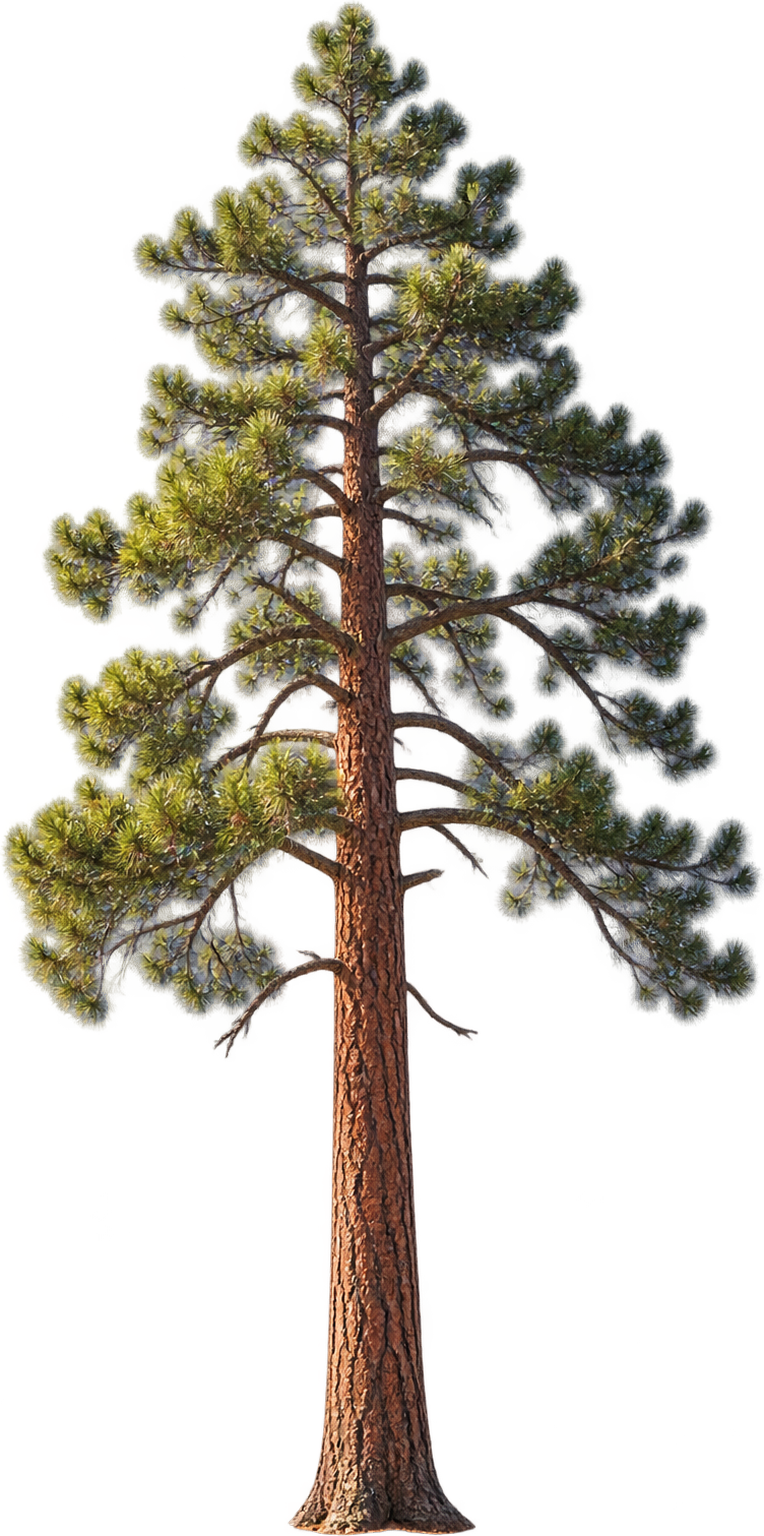
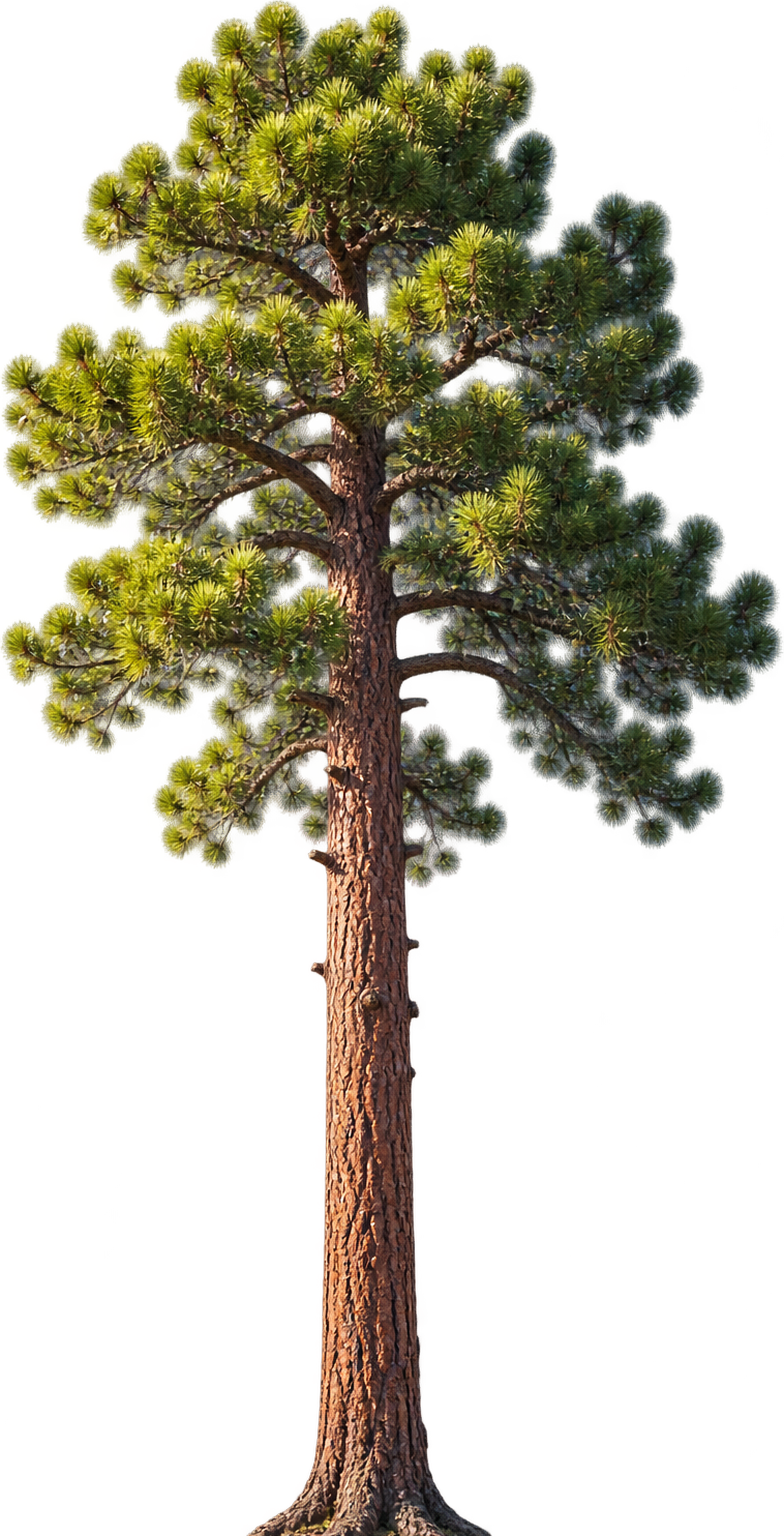
wallpaper-style granite and pines, drop fully submerged boulders
new generated granite texture (smooth grey with soft weathering) and two
jeffrey pine cutouts, milder rock grading, greener tree tint, and no
boulders that sit entirely underwater.

diff --git a/src/trees.js b/src/trees.js
@@ -9,7 +9,7 @@ export function buildTrees(scene, spots, maps, sunE) {
     const map = maps[s.k];
     const aspect = map.image ? map.image.width / map.image.height : 0.5;
     const mat = new THREE.ShaderMaterial({
-      uniforms: { uMap: { value: map }, uGain: { value: lum * 0.25 } },
+      uniforms: { uMap: { value: map }, uGain: { value: lum * 0.42 } },
       transparent: false, alphaToCoverage: true, side: THREE.DoubleSide,
       vertexShader: `varying vec2 vUv; void main(){ vUv = uv; gl_Position = projectionMatrix*modelViewMatrix*vec4(position, 1.0); }`,
       fragmentShader: `uniform sampler2D uMap; uniform float uGain; varying vec2 vUv;
@@ -20,7 +20,10 @@ export function buildTrees(scene, spots, maps, sunE) {
           vec3 c = pow(t.rgb, vec3(2.2))*uGain;
           // tame the photo's saturated orange trunk toward weathered cinnamon grey
           float l = dot(c, vec3(0.2126, 0.7152, 0.0722));
-          c = mix(vec3(l), c, 0.8);
+          c = mix(vec3(l), c, 0.7);
+          // needles toward the wallpaper's fresh green, the trunk stays bark
+          float needle = smoothstep(0.02, 0.1, t.g - t.r*0.8);
+          c *= mix(vec3(1.0), vec3(0.9, 0.96, 0.9), needle);
           c *= mix(vec3(0.9, 0.95, 1.08), vec3(1.0), smoothstep(0.05, 0.35, dot(t.rgb, vec3(0.333))));
           gl_FragColor = vec4(c, smoothstep(0.08, 0.6, t.a));
         }`,

diff --git a/src/main.js b/src/main.js
@@ -57,7 +57,7 @@ const tex = (url, srgb) => {
 const shared = { uSunDir: { value: sunDir }, uSunE: { value: sunE } };
 const U = makeUniforms({
   ...shared, ...swell, ...ocean.uniforms(), ...terr.uniforms,
-  uGranite: { value: tex('tex/granite.jpg', true) },
+  uGranite: { value: tex('tex/granite.jpg?v=3', true) },
   uEnv: { value: env },
   uSand: { value: tex('tex/sand.jpg', true) },
   uSandN: { value: tex('tex/sand_n.png', false) },
@@ -91,7 +91,7 @@ scene.add(new THREE.HemisphereLight(0x8fb6ff, 0x9a9080, Math.PI * 0.06 * sunLum)
 const sunLight = new THREE.DirectionalLight(0xfff4e8, sunLum);
 sunLight.position.copy(sunDir).multiplyScalar(100);
 scene.add(sunLight);
-const trees = buildTrees(scene, [[31, 68, 16, 0], [35.5, 71.5, 12, 1], [40, 70, 9, 1]].map(([x, d, h, k]) => ({ x, d, h, k, y: terr.heightAt(x, d) })), [tex('tex/pineA.png', true), tex('tex/pineB.png', true)], sunE);
+const trees = buildTrees(scene, [[31, 68, 17, 0], [37.5, 68.5, 12, 1]].map(([x, d, h, k]) => ({ x, d, h, k, y: terr.heightAt(x, d) })), [tex('tex/pineA.png?v=3', true), tex('tex/pineB.png?v=3', true)], sunE);
 
 // camera: standing at the top of the swash, handheld; drag to look, wheel to crouch/stand
 const cam = { x: +(q.get('x') ?? 0), d: +(q.get('d') ?? -1.2), h: +(q.get('h') ?? 1.6), yaw: +(q.get('yaw') ?? 0), pitch: +(q.get('pitch') ?? -1) };

diff --git a/src/render.js b/src/render.js
@@ -152,14 +152,14 @@ vec3 rockAlbedo(vec3 p, vec3 N, float seed){
   // each boulder its own tone: some warm and pale, some cooler and darker
   // smooth grey granite: the crystal speckle softened toward its mean
   a = mix(a, vec3(dot(a, vec3(0.333))), 0.6);
-  a = mix(a, vec3(0.5), 0.35)*0.56;
+  a = mix(a, vec3(dot(a, vec3(0.333))), 0.5)*1.0;
   a *= (0.84 + 0.26*seed)*mix(vec3(1.0), vec3(1.02, 1.0, 0.97), fract(seed*7.0));
   // dark lichen crusts spread over the crowns, as on the photo's boulders
   float dk = smoothstep(0.48, 0.66, fbm(p.xz*0.9 + seed*13.0) + 0.25*(N.y - 0.5))*smoothstep(0.3, 0.8, N.y)*smoothstep(0.2, 0.7, p.y);
-  a = mix(a, a*0.42, dk*0.75);
+  a = mix(a, a*0.6, dk*0.3);
   // broad mottling at several scales, as sun and weather bleach granite unevenly
   float mo = fbm(p.xz*0.35 + seed*9.0)*0.6 + fbm(vec2(p.x + p.z, p.y)*1.3 + seed*3.0)*0.4;
-  a *= 0.82 + 0.36*mo;
+  a *= 0.9 + 0.2*mo;
   // pale grey-green lichen on the upward faces above the splash zone
   float li = smoothstep(0.62, 0.78, fbm(p.xz*2.1 + seed*5.0))*smoothstep(0.5, 0.9, N.y)*smoothstep(0.5, 1.0, p.y);
   a = mix(a, vec3(0.62, 0.64, 0.56), li*0.55);

diff --git a/src/terrain.js b/src/terrain.js
@@ -71,8 +71,9 @@ function boulderList() {
     }
   }
   // no rock top may sit just under the surface (pale shelf with a dark rim): push it under or above
-  for (const b of out) if (b[4] > -0.5 && b[4] < 0.3) { const d = (b[4] < -0.05 ? -0.55 : 0.35) - b[4]; b[4] += d; if (d < 0) b[5] = Math.max(b[5] + d, 0.3); }
-  return out.slice(0, NB);
+  // only rocks that break the surface: fully submerged ones read as dark blotches in open water
+  for (const b of out) if (b[4] > -0.5 && b[4] < 0.3) b[4] = 0.35;
+  return out.filter((b) => b[4] > 0.3).slice(0, NB);
 }
 
 const FS_BAKE = HEAD + /* glsl */ `

diff --git a/tex/raw/PROVENANCE.md b/tex/raw/PROVENANCE.md
@@ -6,3 +6,5 @@ granite: gpt-image-2 via mchat, 2026-09-28, seamless weathered Sierra granite to
 bark: gpt-image-2 via mchat, 2026-09-28, seamless jeffrey pine bark
 2026-09-28 gpt-image-2 via mchat: granite2 (Tahoe granite + lichen, seamless), pineA/pineB (Jeffrey pine cutouts,
 transparent, sun from left, alpha colour-bled), mtnA/mtnB (distant snowy range cutouts) composited into mountains.png.
+2026-09-28 gpt-image-2: granite3 (smooth grey Tahoe granite with dark weathering, seamless -> granite.jpg), pineC/pineD (sparse sunlit Jeffrey pines -> pineA/pineB)
+2026-09-28 gpt-image-2: pineE/pineF (wallpaper-style Jeffrey pines, text prompts only) -> pineA/pineB; granite4 rejected (too gravelly)
